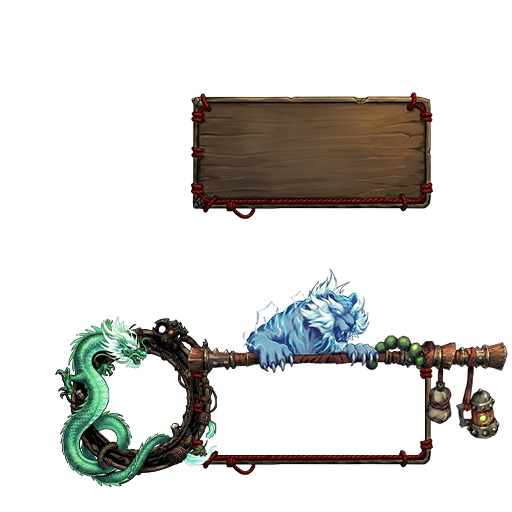
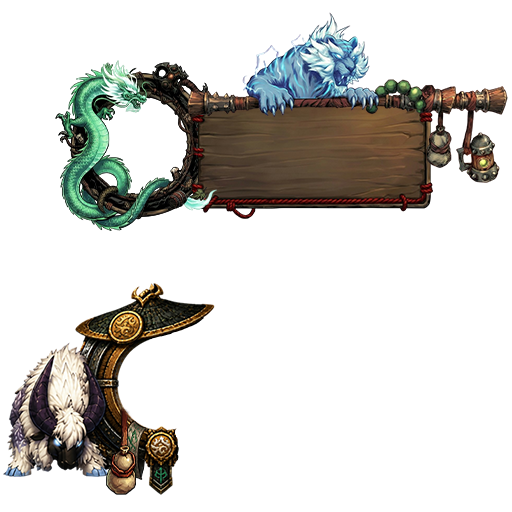
style: Add new monk frames and update version to 1.3.5

Changed region(s): [[0.0, 0.5312, 1.0, 0.9688], [0.0938, 0.0312, 1.0, 0.4688]]

diff --git a/README.md b/README.md
@@ -1,7 +1,7 @@
 # EPF Custom Skins
 
 [![License: CC BY-NC-SA 4.0](https://img.shields.io/badge/License-CC%20BY--NC--SA%204.0-blue.svg)](https://creativecommons.org/licenses/by-nc-sa/4.0/)
-[![Version](https://img.shields.io/badge/Version-1.3.4-informational)](ElitePlayerFrame_Enhanced_CustomSkins.toc)
+[![Version](https://img.shields.io/badge/Version-1.3.5-informational)](ElitePlayerFrame_Enhanced_CustomSkins.toc)
 [![WoW](https://img.shields.io/badge/WoW-12.0.7%20(MN)-orange)](https://worldofwarcraft.blizzard.com/)
 [![Lua](https://img.shields.io/badge/Lua-5.x-blue)](https://www.lua.org/)
 

diff --git a/CHANGELOG.md b/CHANGELOG.md
@@ -4,6 +4,12 @@ All notable changes to **EPF Custom Skins** are documented in this file.
 
 The format is based on [Keep a Changelog](https://keepachangelog.com/en/1.1.0/), and this project adheres to [Semantic Versioning](https://semver.org/spec/v2.0.0.html).
 
+## [1.3.5] - 2026-07-09
+
+### Added
+
+- Added new monk frames
+
 ## [1.3.4] - 2026-06-06
 
 ### Fixed
